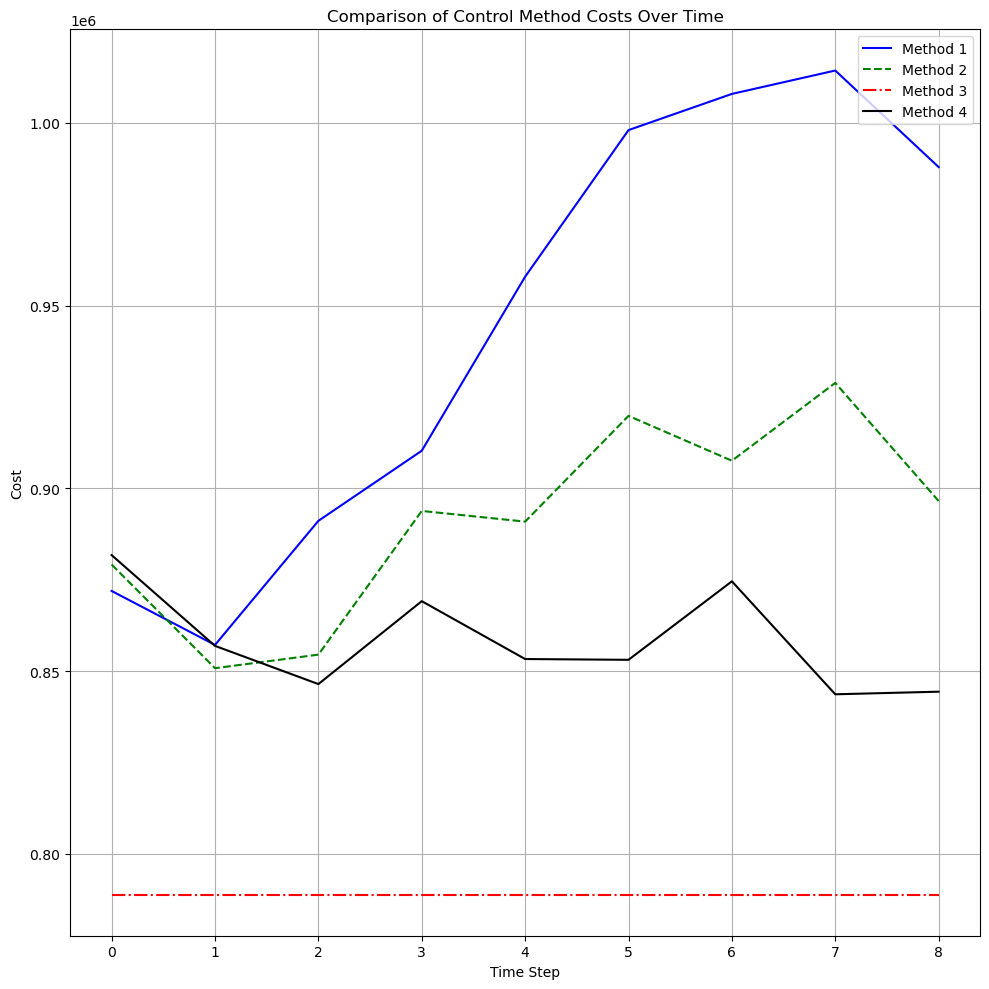
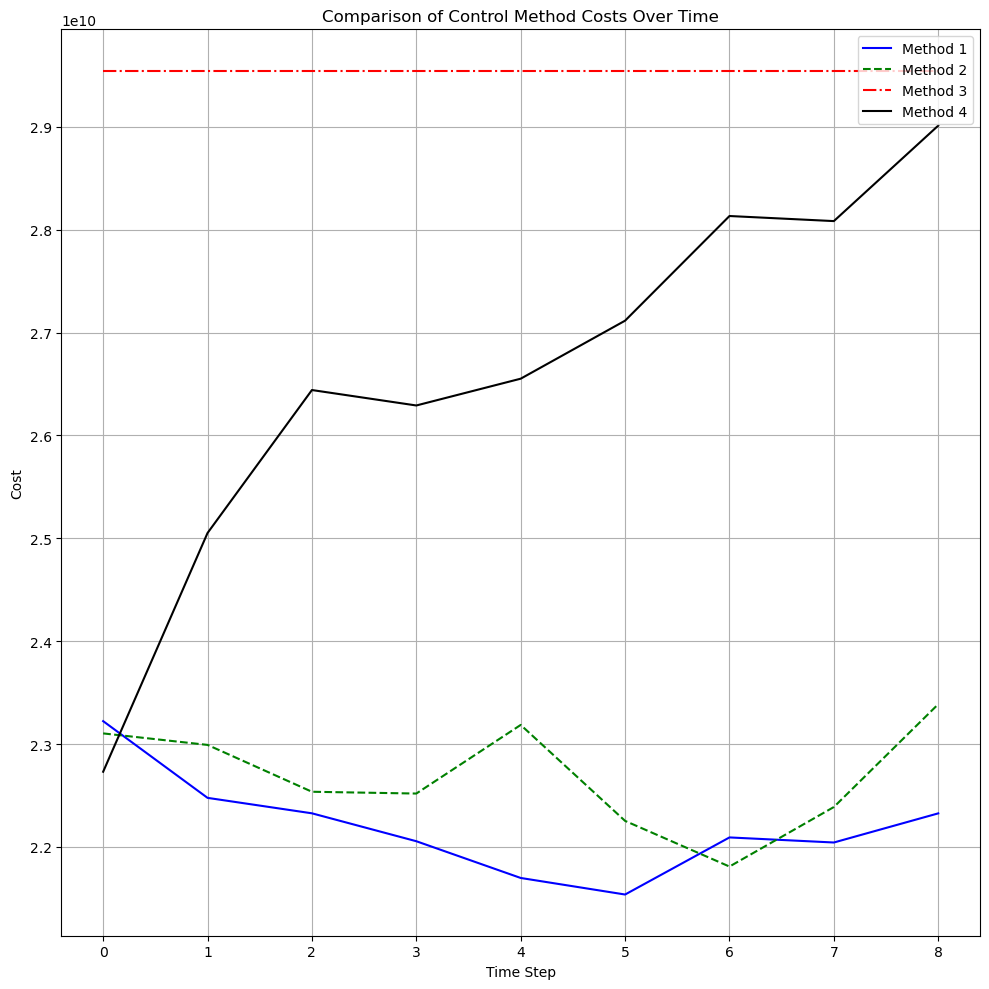
+

diff --git a/main.py b/main.py
@@ -268,7 +268,7 @@ def run_dynamics(Noise_mu, sigma_eta, SYSTEM_TYPE, METHOD_TYPE):
             total_cost += robotic_arm_cost(x_t, u_t)  # Scaled cost
         elif SYSTEM_TYPE == 'linear':
             x_t = linear_dynamics(x_t, u_t, phi_true_history[t])
-            total_cost += quadratic_cost(x_t, u_t)  # Scaled cost
+            total_cost += quadratic_cost(x_t, u_t) / N # Scaled cost
         x_history.append(x_t)
 
     return total_cost, x_history, u_history, lambda_history, phi_pred_history, phi_true_history
